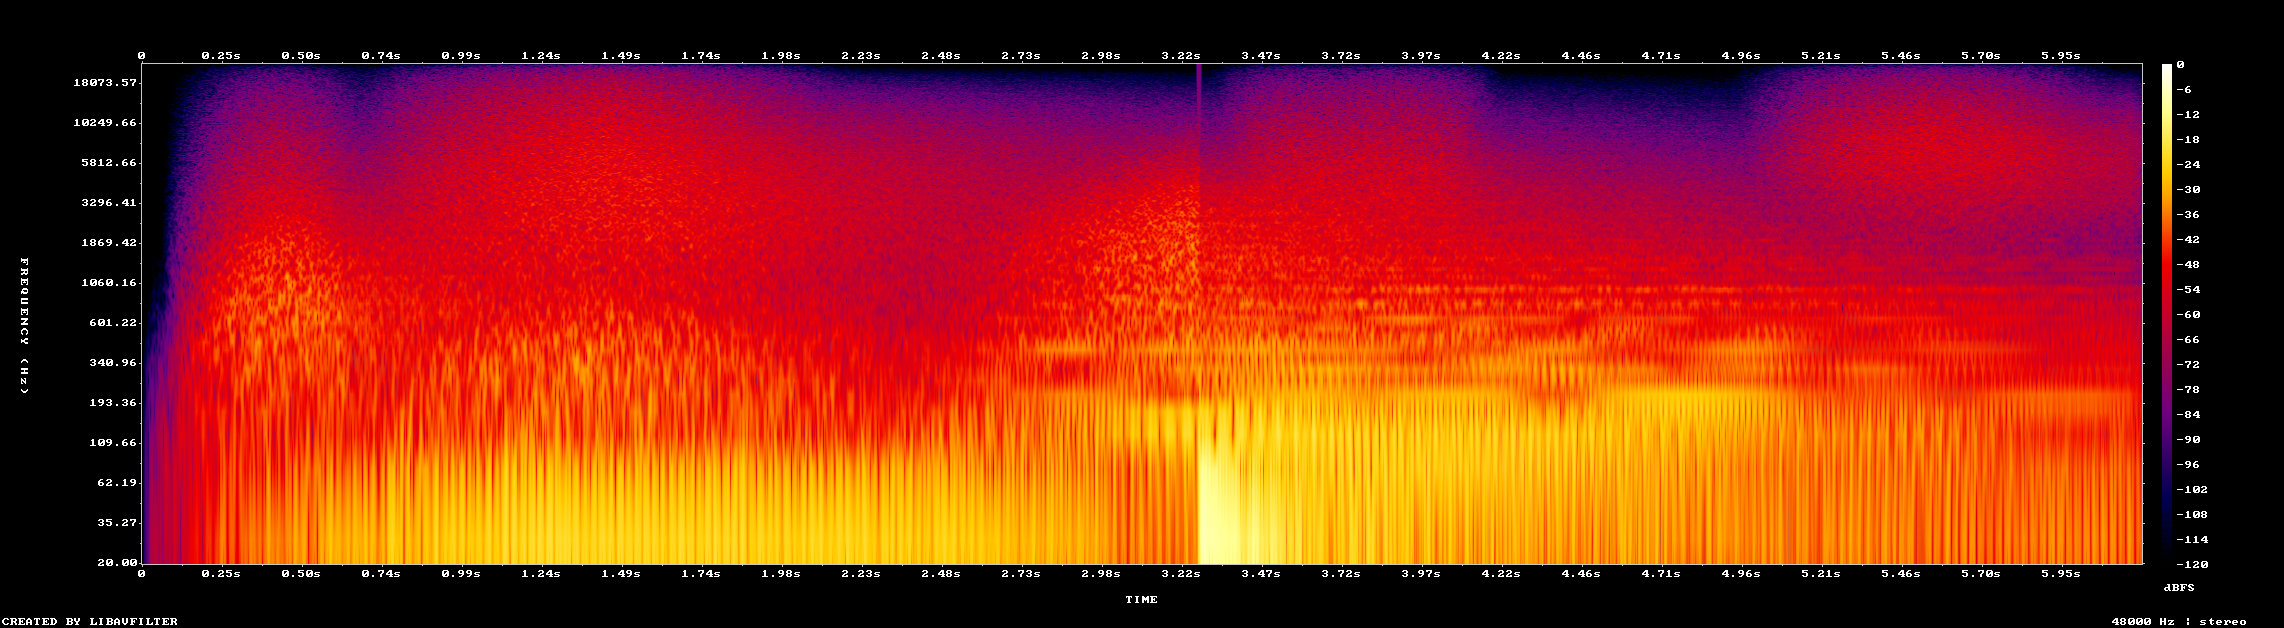
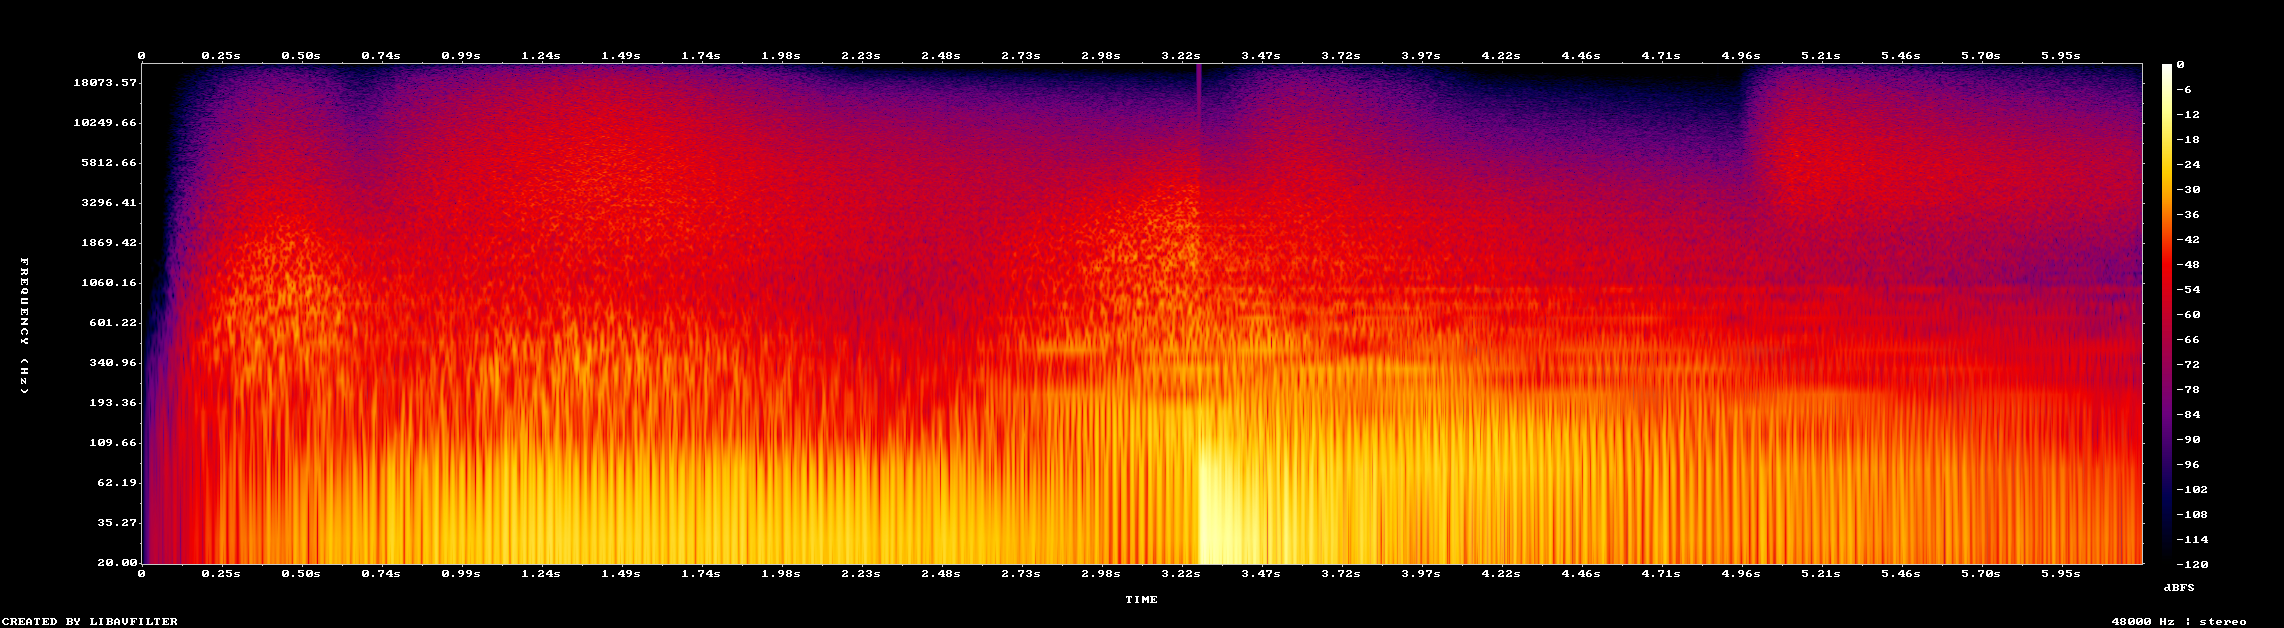
Crenature intro: v8 changes - contour sheen, 30% smaller lockup, eased sound
Per client notes on v7: the text sheen is now a fine warm-silver light
that runs along each letter's contours (inner ones too), staggered
left to right; the 16:9 lockup is scaled down ~30% (about 48% of the
frame width, the centred dragon scaled to match); the sound after the
sunrise is reshaped - the swell rises into the boom then eases out
naturally with the filter closing, the pen textures are one gesture
that fades as the word completes, and the closing shimmer has a quick
attack and a long tail.

Claude-Session: https://claude.ai/code/session_01LeeqgK7pvphnMJyz3b3byD

Changed region(s): [[0.0933, 0.0908, 0.9637, 0.9076]]

diff --git a/projects/crenature-intro/build/render2.py b/projects/crenature-intro/build/render2.py
@@ -22,7 +22,7 @@ EYE = np.array([0xFF, 0x6A, 0x24]) / 255
 EYE_HOT = np.array([0xFF, 0xBE, 0x77]) / 255
 INK = np.array([0x10, 0x10, 0x10]) / 255
 LETTER = np.array([0x12, 0x12, 0x12]) / 255
-SILVER = np.array([0.86, 0.84, 0.80])                  # warm-silver sheen on the type
+SILVER = np.array([0.93, 0.91, 0.87])                  # warm-silver sheen on the type
 WARM = np.array([1.0, 0.93, 0.84])                     # rim-light colour
 
 # ---------------------------------------------------------------- timeline
@@ -38,7 +38,7 @@ T_TYPE0, T_TYPE_STEP = 3.25, 0.065   # letter outlines draw on, staggered
 T_OUTLINE, T_FILL = 0.45, 0.35       # per letter: outline draw time, inward fill time
 T_BLINK = 4.65
 T_GLINT = 5.05                       # one light pass: dragon streak -> eye glint -> type sheen
-T_TSHEEN0, T_TSHEEN1 = 5.05, 5.85
+T_TSHEEN0, T_TSHEEN_STEP, T_TSHEEN_DUR = 4.95, 0.05, 0.62   # a fine light runs each letter's contour
 Z_CLOSE = 3.0
 
 
@@ -224,8 +224,8 @@ def camera(t, A):
     drag = np.array([A.dcx, A.dcy])
     lock = np.array([W2 / 2 - 30, H2 / 2])
     fx, fy = (head * (1 - k1) + drag * k1) * (1 - k2) + lock * k2
-    z0 = Z_CLOSE * (1 - k1) + 1.32 * k1
-    z = z0 * (1 - k2) + 0.95 * k2
+    z0 = Z_CLOSE * (1 - k1) + 1.0 * k1
+    z = z0 * (1 - k2) + 0.665 * k2                                 # final lockup ~48 % of frame width
     x = np.clip((t - T_SLIDE1) / (DUR - T_SLIDE1), 0, 1)
     z = z * (1 + 0.095 * (x - 0.15 * (1 - np.exp(-x / 0.15))))       # ~4 %/s push through the hold
     rot = np.radians(-7.0 * (1 - k1) ** 1.5 + 0.15 * np.sin(0.7 * t) * (1 - sstep(3.5, 5.2, t)))
@@ -281,9 +281,6 @@ def render(A, t):
     rgb = rgb * (1 - e[..., None]) + ergb * e[..., None]
     a = a * (1 - e) + e
     # wordmark: each outline draws on, then the fill flows inward; a sheen glides along the edges
-    lx0, lx1 = A.letter_boxes[0][0] - 150, A.letter_boxes[-1][2] + 150
-    xs_sheen = lx0 + (lx1 - lx0) * float(ease_io(T_TSHEEN0, T_TSHEEN1, t, 2))
-    sheen_on = T_TSHEEN0 < t < T_TSHEEN1 + 0.05
     for i, L in enumerate(A.type):
         t0 = T_TYPE0 + i * T_TYPE_STEP
         if t < t0: continue
@@ -293,17 +290,27 @@ def render(A, t):
         ol = Image.new('L', (x1 - x0, y1 - y0), 0); dr = ImageDraw.Draw(ol)
         for c, cl in zip(L['contours'], L['clen']):
             k = int(np.searchsorted(cl, po * cl[-1]))
-            if k >= 2: dr.line([tuple(p) for p in c[:k + 1]], fill=255, width=5, joint='curve')
+            if k >= 2: dr.line([tuple(p) for p in c[:k + 1]], fill=255, width=6, joint='curve')
         ol = np.asarray(ol).astype(np.float32) / 255
         g = kf * L['dmax']
         fill = np.clip((g - L['din']) / 2.5 + 1, 0, 1) * L['m'] * (kf > 0)
         la = np.maximum(fill, ol * (1 - kf))
         col = np.broadcast_to(LETTER, la.shape + (3,)).copy()
-        if sheen_on:
-            xx_ = np.arange(x0, x1)[None, :]
-            band = np.exp(-((xx_ - xs_sheen) / 190.0) ** 2)
-            ring = np.clip(1 - L['din'] / 11.0, 0, 1) ** 0.7 * L['m']
-            amt = np.clip(band * (1.0 * ring + 0.22), 0, 1)[..., None]
+        ts = T_TSHEEN0 + i * T_TSHEEN_STEP
+        if ts < t < ts + T_TSHEEN_DUR:
+            x = (t - ts) / T_TSHEEN_DUR
+            head = float(ease_io(0, 1, x, 2)) * 1.15               # fraction of the contour travelled
+            env = np.sin(np.pi * x) ** 0.7
+            hl = Image.new('L', (x1 - x0, y1 - y0), 0); dh = ImageDraw.Draw(hl)
+            for c, cl in zip(L['contours'], L['clen']):
+                P_ = cl[-1]
+                for j in range(12):                                # tail fades toward the head
+                    a0, a1 = head - 0.24 * (1 - j / 12), head - 0.24 * (1 - (j + 1) / 12)
+                    i0, i1 = [int(np.searchsorted(cl, (v % 1.0) * P_)) for v in (a0, a1)]
+                    if i1 <= i0 + 1: continue
+                    dh.line([tuple(p) for p in c[i0:i1 + 1]], fill=int(255 * ((j + 1) / 12) ** 1.6), width=24, joint='curve')
+            hlf = ndimage.gaussian_filter(np.asarray(hl).astype(np.float32) / 255, 1.5)
+            amt = (np.clip(hlf * 1.15, 0, 1) * L['m'] * env)[..., None]
             col = col * (1 - amt) + SILVER * amt
         sl2 = (slice(y0, y1), slice(x0, x1))
         rgb[sl2] = rgb[sl2] * (1 - la[..., None]) + col * la[..., None]
@@ -328,8 +335,9 @@ def render(A, t):
     # camera: sample the 2x layout directly
     fx, fy, z, rot = camera(t, A)
     layer = np.dstack([rgb, a, glow, wl])
-    if z < 1.1:                                   # pre-filter when minifying
-        layer = ndimage.gaussian_filter(layer, (0.6, 0.6, 0))
+    if z < 1.1:                                   # pre-filter when minifying (scaled to the zoom)
+        sg = max(0.6, 0.45 * (2 / z) - 0.3)
+        layer = ndimage.gaussian_filter(layer, (sg, sg, 0))
     yy, xx = np.mgrid[0:H, 0:W].astype(np.float32)
     px, py = (xx - W / 2) / (0.5 * z), (yy - H / 2) / (0.5 * z)
     c_, s_ = np.cos(rot), np.sin(rot)

diff --git a/projects/crenature-intro/audio/cues3.py b/projects/crenature-intro/audio/cues3.py
@@ -56,8 +56,11 @@ m.add(norm(low_air), 0, gain=.06, pan=pan_a * .5, rev=.3)
 # 4. sunrise: one slow open-voiced swell (D, A, E, A - neither major nor minor), filter opening
 t0, t1 = R.T_RISE0 - .5, R.DUR
 ns = secs(t1 - t0); ts = tax(ns) + t0
-cut = 180 + 1300 * np.interp(ts, tf, [R.bg_level(x) for x in tf]) ** 1.2
-env = seg(ts, t0, R.T_LIGHT_HIT) ** 1.8 * (1 - seg(ts, R.T_LIGHT_HIT + .4, R.DUR - .05)) ** 1.3
+after = np.maximum(ts - R.T_LIGHT_HIT, 0)
+decay = np.exp(-after / 0.95)                                    # natural ease-out after the peak
+cut = 180 + 1400 * np.interp(ts, tf, [R.bg_level(x) for x in tf]) ** 1.2 * np.exp(-after / 1.8)
+env = np.where(ts < R.T_LIGHT_HIT, seg(ts, t0, R.T_LIGHT_HIT) ** 2.2, decay)
+env *= 1 - seg(ts, R.DUR - .35, R.DUR) ** 2                      # nothing left at the end
 pad = sum(g * saw_voice(F[k], ns, cut, harmonics=14, detune_cents=(-7, 0, 6))
           for k, g in (('D2', 1.0), ('A2', .8), ('E3', .55), ('A3', .4)))
 m.add(norm(pad) * env, t0, gain=.20, pan=0, rev=.55)
@@ -67,23 +70,29 @@ press = static(bp_sweep(pink(nr), np.linspace(300, 2400, nr), q=.6), 'lp', 3500)
 m.add(norm(press), R.T_LIGHT_HIT - 1.3, gain=.10, pan=0, rev=.6)
 
 # 5. the light settles: a deep, soft sub boom with a low body - no click
-m.add(sub_thump(62, 34, 2.2), R.T_LIGHT_HIT, gain=.34, pan=0, rev=.15)
+m.add(sub_thump(62, 32, 2.6), R.T_LIGHT_HIT, gain=.32, pan=0, rev=.18)
 nt = secs(1.6); thud = static(brown(nt), 'lp', 160) * np.exp(-tax(nt) / .35)
 m.add(norm(thud), R.T_LIGHT_HIT, gain=.12, pan=0, rev=.4)
 
 # 6. type: near-silent pen strokes while each outline draws (soft filtered noise, no ticks)
+act = np.zeros(n); fc = np.zeros(n)
 for i in range(9):
     ts0 = R.T_TYPE0 + i * R.T_TYPE_STEP
-    nn = secs(R.T_OUTLINE); tt = tax(nn)
-    pen = static(bp_sweep(pink(nn), 3000 + 1500 * np.sin(np.pi * tt / tt[-1]), q=.9), 'hp', 1800)
-    pen *= np.sin(np.pi * tt / tt[-1]) ** 2
-    m.add(norm(pen), ts0, gain=.018, pan=-.25 + .06 * i, rev=.3)
+    x = np.clip((t - ts0) / R.T_OUTLINE, 0, 1)
+    w = np.sin(np.pi * x) ** 2 * (1 - .085 * i)
+    act += w; fc += w * (3600 - 120 * i)
+fc = np.where(act > 1e-4, fc / np.maximum(act, 1e-4), 3000)
+act = ndimage_smooth = np.convolve(act, np.ones(secs(.05)) / secs(.05), 'same')
+act *= np.exp(-np.maximum(t - (R.T_TYPE0 + .35), 0) / .55)      # the gesture eases out as the word completes
+pen = static(bp_sweep(pink(n), fc, q=.8), 'hp', 1600) * act
+m.add(norm(pen), 0, gain=.028, pan=np.clip(np.interp(t, [R.T_TYPE0, R.T_TYPE0 + .9], [-.3, .3]), -.3, .3), rev=.35)
 
 # 7. the closing light pass: a soft high air shimmer travelling left -> right
-nh = secs(R.T_TSHEEN1 - R.T_GLINT + .5); th = tax(nh)
-sh = static(bp_sweep(pink(nh), 5200 + 2500 * np.sin(np.pi * th / th[-1]), q=1.1), 'hp', 3000)
-sh *= np.sin(np.pi * th / th[-1]) ** 2
-m.add(norm(sh), R.T_GLINT - .2, gain=.035, pan=np.linspace(-.5, .5, nh), rev=.6)
+t_sh = R.T_GLINT - .15
+nh = secs(R.DUR - t_sh); th = tax(nh)
+shenv = np.minimum(1, th / .18) ** 2 * np.exp(-np.maximum(th - .18, 0) / .5)
+sh = static(bp_sweep(pink(nh), 6200 - 1800 * np.minimum(1, th / 1.2), q=1.0), 'hp', 2800) * shenv
+m.add(norm(sh), t_sh, gain=.04, pan=np.clip(np.linspace(-.5, 1.2, nh), -.5, .5), rev=.65)
 
 out = os.path.join(HERE, 'crenature_v7_sfx.wav')
 m.render(out, rt_tau=.85, predelay=.03)
